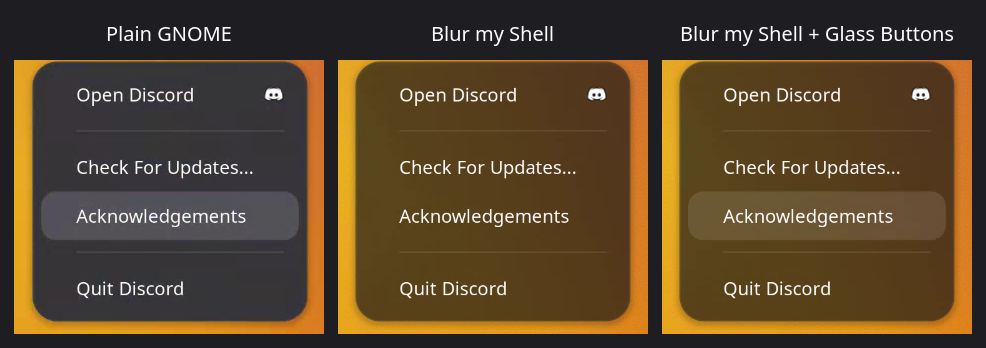
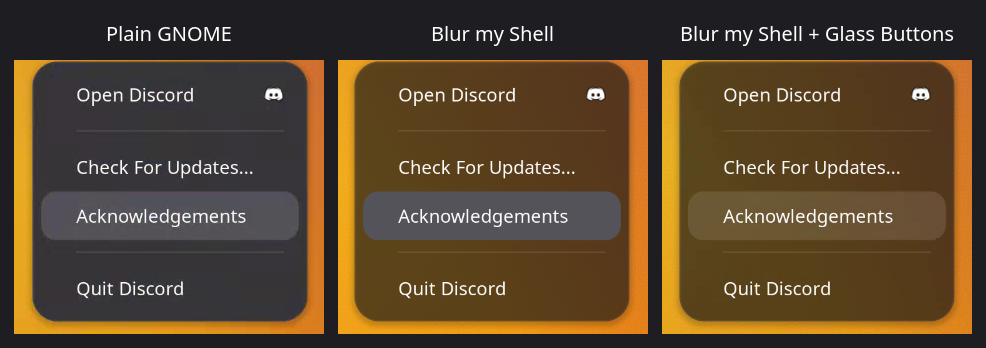
README: uncut Quick Settings, hovered tray entry in all three
Quick Settings crop now has equal margins on both sides instead of
touching the menu's right edge; the Blur my Shell tray panel shows the
hovered entry like the other two.

diff --git a/README.md b/README.md
@@ -8,7 +8,7 @@ A small GNOME Shell extension (GNOME 49–51) for a glassier shell, made to go w
 
 ![Calendar and notifications: plain GNOME, with Blur my Shell, and with Blur my Shell + Glass Buttons](media/calendar.png)
 
-![App indicator menu (Discord): plain GNOME and Blur my Shell + Glass Buttons with a hovered entry, Blur my Shell alone without](media/tray-menu.png)
+![App indicator menu (Discord) with a hovered entry: plain GNOME, with Blur my Shell, and with Blur my Shell + Glass Buttons](media/tray-menu.png)
 
 ## Features
 
